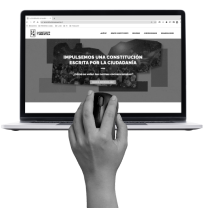
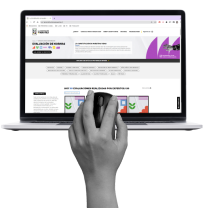
kit de difusion y evaluacion ajustes front

Changed region(s): [[0.1159, 0.1154, 0.8986, 0.5481], [0.2319, 0.0577, 0.8696, 0.1154]]

diff --git a/static/css/style.css b/static/css/style.css
@@ -6393,8 +6393,11 @@ a.btn-glosario {
 .evaluaciones-lista .como-leer-evaluaciones {
     display: flex;
     justify-content: flex-end;
-    position: relative;
-    bottom: -30px;
+    margin-bottom: 30px;
+}
+
+.evaluaciones-lista .como-leer-evaluaciones a.metodologia-lcen {
+    margin-right: 30px;
 }
 
 .evaluaciones-lista .como-leer-evaluaciones a {
@@ -6414,6 +6417,7 @@ a.btn-glosario {
     font-size: 1.8em;
     color: black;
     font-weight: 900;
+    padding-top: 0px;
 }
 
 .evaluaciones-lista h2.titulo-evaluaciones span {
@@ -6425,7 +6429,7 @@ a.btn-glosario {
     background: transparent;
     padding: 0px;
     margin-right: 0px;
-    margin-top: 70px;
+    margin-top: 0px;
     display: flex;
     flex-direction: column;
     justify-content: flex-start;
@@ -6459,6 +6463,31 @@ a.btn-glosario {
     width: 25px !important;
     height: auto !important;
 }
+
+
+/*Filtro evaluaciones*/
+
+.formulario-evaluaciones input {
+    border: 0px;
+    background: #EDEDED;
+    color: black;
+    padding: 8px 10px;
+    border-radius: 30px;
+    width: 250px;
+    font-size: 1em;
+    padding-right: 10px;
+}
+
+.formulario-evaluaciones ::placeholder {
+    color: #4F4F4F;
+    font-style: italic;
+    font-size: 1em;
+}
+
+.formulario-evaluaciones .btn-lcen:hover{
+    background: ;
+}
+
 
 /*Evaluaciones Listados Sellos*/
 

diff --git a/evaluaciones/templates/evaluaciones/verevaluaciones.html b/evaluaciones/templates/evaluaciones/verevaluaciones.html
@@ -103,6 +103,8 @@
 
           <div class="col-12 como-leer-evaluaciones">
 
+            <a href="#" class="metodologia-lcen">Metodología <img src="{% static 'img/informacion-icono.svg' %}" alt="icono" class="icono"></a>
+
             <!-- Button trigger modal -->
             <a href="#" type="button" class="como-leerlo" data-bs-toggle="modal" data-bs-target="#como-leerlo">Cómo leerlo <img src="{% static 'img/informacion-icono.svg' %}" alt="icono" class="icono"></a>
             <!-- Modal -->
@@ -144,13 +146,14 @@
                 <div class="normas-sellos">
                   <h2 class="titulo-evaluaciones">Hay <span>{{ evaluaciones_list.count }}</span> evaluaciones realizadas por expertos/as</h2>
 
-                  <div class="formulario">
+                  <div class="formulario-evaluaciones">
                   <form action="{% url 'search_results' %}">
                     {% csrf_token %}
                     <input name="q" type="text" placeholder="Buscar en los artículos...">
+                    <button type="button" class="btn-lcen button hvr-sweep-to-right wow animate__ animate__fadeIn animated">Buscar</button>
                   </form>
                   </div>
-                  
+
 
                     <div class="sellos-lista">
                         {% for norma in filtrocategorias.qs %}

diff --git a/evaluaciones/templates/evaluaciones/verevaluacion.html b/evaluaciones/templates/evaluaciones/verevaluacion.html
@@ -172,6 +172,8 @@
 
             <div class="col-12 como-leer-evaluaciones">
 
+                <a href="#" class="metodologia-lcen">Metodología <img src="{% static 'img/informacion-icono.svg' %}" alt="icono" class="icono"></a>
+
                 <!-- Button trigger modal -->
                 <a href="#" type="button" class="como-leerlo" data-bs-toggle="modal" data-bs-target="#como-leerlo">Cómo leerlo <img src="{% static 'img/informacion-icono.svg' %}" alt="icono" class="icono"></a>
                 <!-- Modal -->
